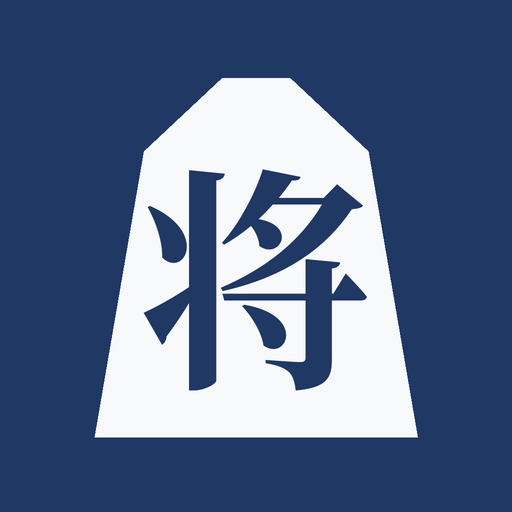
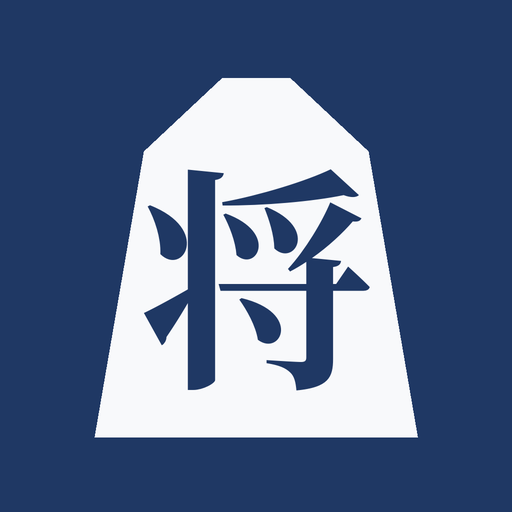
fix(pwa): アイコン日本語字形修正＋ホーム画面追加 手順書ページ＋index リンク [#388]

diff --git a/docs/install_guide.html b/docs/install_guide.html
@@ -1,0 +1,82 @@
+<!DOCTYPE html>
+<html lang="ja">
+<head>
+<meta charset="UTF-8">
+<meta name="viewport" content="width=device-width, initial-scale=1.0">
+<title>将棋大会アプリ ホーム画面に追加する手順</title>
+<style>
+  * { box-sizing: border-box; margin: 0; padding: 0; }
+  body { font-family: 'Hiragino Sans','Meiryo',sans-serif; color:#222; background:#fff; line-height:1.9; font-size:19px; }
+  .wrap { max-width: 760px; margin: 0 auto; padding: 24px 18px 48px; }
+  h1 { font-size: 27px; color:#1F3864; text-align:center; margin-bottom: 6px; }
+  .lead { text-align:center; color:#444; font-size:18px; margin-bottom: 22px; }
+  .merit { background:#eaf3de; border:1px solid #97c459; border-radius:12px; padding:14px 18px; font-size:18px; margin-bottom:26px; }
+  .merit b { color:#27500A; }
+  h2 { font-size:22px; color:#fff; background:#1F3864; border-radius:10px; padding:10px 16px; margin: 26px 0 14px; display:flex; align-items:center; gap:10px; }
+  h2 .os { font-size:15px; background:#fff; color:#1F3864; border-radius:20px; padding:2px 12px; font-weight:700; }
+  ol { list-style:none; counter-reset: step; }
+  li.step { counter-increment: step; display:flex; gap:14px; align-items:flex-start; padding:14px 0; border-bottom:1px dashed #ddd; }
+  li.step::before { content: counter(step); flex:0 0 auto; width:42px; height:42px; background:#2E75B6; color:#fff; border-radius:50%; display:flex; align-items:center; justify-content:center; font-size:22px; font-weight:700; margin-top:2px; }
+  .step-body { flex:1; }
+  .step-body .big { font-size:20px; }
+  .icon { display:inline-flex; vertical-align:middle; width:34px; height:34px; border:2px solid #1F3864; border-radius:8px; align-items:center; justify-content:center; margin:0 4px; }
+  .pill { display:inline-block; background:#f2f2f2; border:1px solid #ccc; border-radius:8px; padding:2px 10px; font-weight:700; margin:0 2px; white-space:nowrap; }
+  .pill-blue { background:#e8f0f8; border-color:#9DB7D5; color:#1F3864; }
+  .note { background:#faeeda; border-left:5px solid #EF9F27; border-radius:0 10px 10px 0; padding:12px 16px; font-size:17px; color:#633806; margin:18px 0; }
+  .done { background:#e8f0f8; border:1px solid #9DB7D5; border-radius:12px; padding:14px 18px; font-size:19px; margin-top:14px; }
+  .done b { color:#1F3864; }
+  .koma { display:inline-block; width:30px; height:32px; background:#1F3864; color:#fff; border-radius:4px; text-align:center; line-height:32px; font-weight:700; vertical-align:middle; margin:0 3px; }
+  .warn { background:#fcebeb; border:1px solid #f09595; border-radius:12px; padding:14px 18px; color:#A32D2D; font-size:17px; margin-top:28px; }
+  .back { display:inline-block; margin-top:24px; color:#1F3864; font-size:16px; }
+  @media print { body{font-size:15px;} .wrap{padding:0;} h2{-webkit-print-color-adjust:exact; print-color-adjust:exact;} }
+</style>
+</head>
+<body>
+<div class="wrap">
+
+  <h1>将棋大会アプリを<br>「ホーム画面」に追加しよう</h1>
+  <p class="lead">最初に一度だけ設定すれば、次からはアイコンを押すだけで開けます。</p>
+
+  <div class="merit">
+    <b>これをすると便利！</b><br>
+    毎回リンクを探さなくてよくなります。スマホの画面に <span class="koma">将</span> のアイコンができて、ふつうのアプリと同じように一発で開けます。
+  </div>
+
+  <!-- iPhone -->
+  <h2><span class="os">iPhone</span> Safari（サファリ）で開いている場合</h2>
+  <p style="font-size:17px; color:#444; margin-bottom:8px;">※ iPhone は必ず <b>Safari</b>（標準の青いコンパスのアプリ）で開いてください。</p>
+  <ol>
+    <li class="step"><div class="step-body"><span class="big">将棋大会アプリのページを開きます。</span><br>（役員から送られたリンク、またはこの運営サイトの「大会運営アプリを開く」を押す）</div></li>
+    <li class="step"><div class="step-body"><span class="big">画面<b>右下の <span style="font-size:26px;">•••</span>（点が3つ）</b>を押します。</span></div></li>
+    <li class="step"><div class="step-body"><span class="big">出てきたメニューの中の <span class="pill">共有</span> を押します。</span></div></li>
+    <li class="step"><div class="step-body"><span class="big"><b style="color:#A32D2D;">ここが大事！</b> 出てきた画面を<b>指で下のほうまでスクロール</b>します。</span><br>
+      下のほうに <span class="pill">ホーム画面に追加</span> があるので押します。<br>
+      <span style="font-size:16px;color:#633806;">（最初の画面には出ていません。必ず<b>下までスクロール</b>してください）</span></div></li>
+    <li class="step"><div class="step-body"><span class="big">右上の <span class="pill pill-blue">追加</span> を押します。</span></div></li>
+  </ol>
+  <div class="done"><b>完了！</b> ホーム画面に <span class="koma">将</span> のアイコンができます。次からはそれを押すだけ。</div>
+
+  <!-- Android -->
+  <h2><span class="os">Android</span> Chrome（クローム）で開いている場合</h2>
+  <ol>
+    <li class="step"><div class="step-body"><span class="big">将棋大会アプリのページを開きます。</span></div></li>
+    <li class="step"><div class="step-body"><span class="big">画面の<b>右上にある<span style="font-size:24px;">⋮</span>（点が縦に3つ）</b>を押します。</span></div></li>
+    <li class="step"><div class="step-body"><span class="big">メニューの中の <span class="pill">アプリをインストール</span> または <span class="pill">ホーム画面に追加</span> を押します。</span></div></li>
+    <li class="step"><div class="step-body"><span class="big">確認が出たら <span class="pill pill-blue">インストール</span>（または <span class="pill pill-blue">追加</span>）を押します。</span></div></li>
+  </ol>
+  <div class="done"><b>完了！</b> ホーム画面に <span class="koma">将</span> のアイコンができます。次からはそれを押すだけ。</div>
+
+  <div class="note">
+    <b>大事なお願い（とくに iPhone）</b><br>
+    アプリを入れた直後は、これまでの名簿が「空」に見えることがあります。あわてず、<b>大会を始める前</b>にアイコンから開き、「マスタ」タブの <b>「☁ クラウドから取得」</b> を押すと名簿が出てきます（インターネットにつながっているとき）。
+  </div>
+
+  <div class="warn">
+    うまくいかないときは、支部役員（事務局）にこの画面を見せて相談してください。スマホの機種や設定で表示が少し違うことがあります。
+  </div>
+
+  <a class="back" href="../index.html">← 運営サイトへ戻る</a>
+
+</div>
+</body>
+</html>

diff --git a/index.html b/index.html
@@ -59,6 +59,7 @@ th.cell-amt{text-align:right}
     <h2>運営ツール</h2>
     <a class="app-link" href="shogi_v4.html">大会運営アプリを開く</a>
     <p style="font-size:13px;color:#888;text-align:center">スマートフォンのブラウザで開いてください</p>
+    <a class="app-link" href="docs/install_guide.html" target="_blank" rel="noopener noreferrer" style="background:#2E75B6">📱 ホーム画面に追加する方法（かんたん手順）</a>
     <!-- 運営マニュアル導線（事前リファレンス・別タブ起動 / #316 MANUAL-LINK-001） -->
     <a class="app-link" href="docs/manual_sp.html" target="_blank" rel="noopener noreferrer" style="background:#2E75B6">📖 運営マニュアル（はじめに読む）</a>
     <p style="font-size:13px;color:#888;text-align:center">別タブで開きます　／　<a href="docs/manual_print.html" target="_blank" rel="noopener noreferrer" style="color:#2E75B6">印刷用マニュアルはこちら</a></p>
